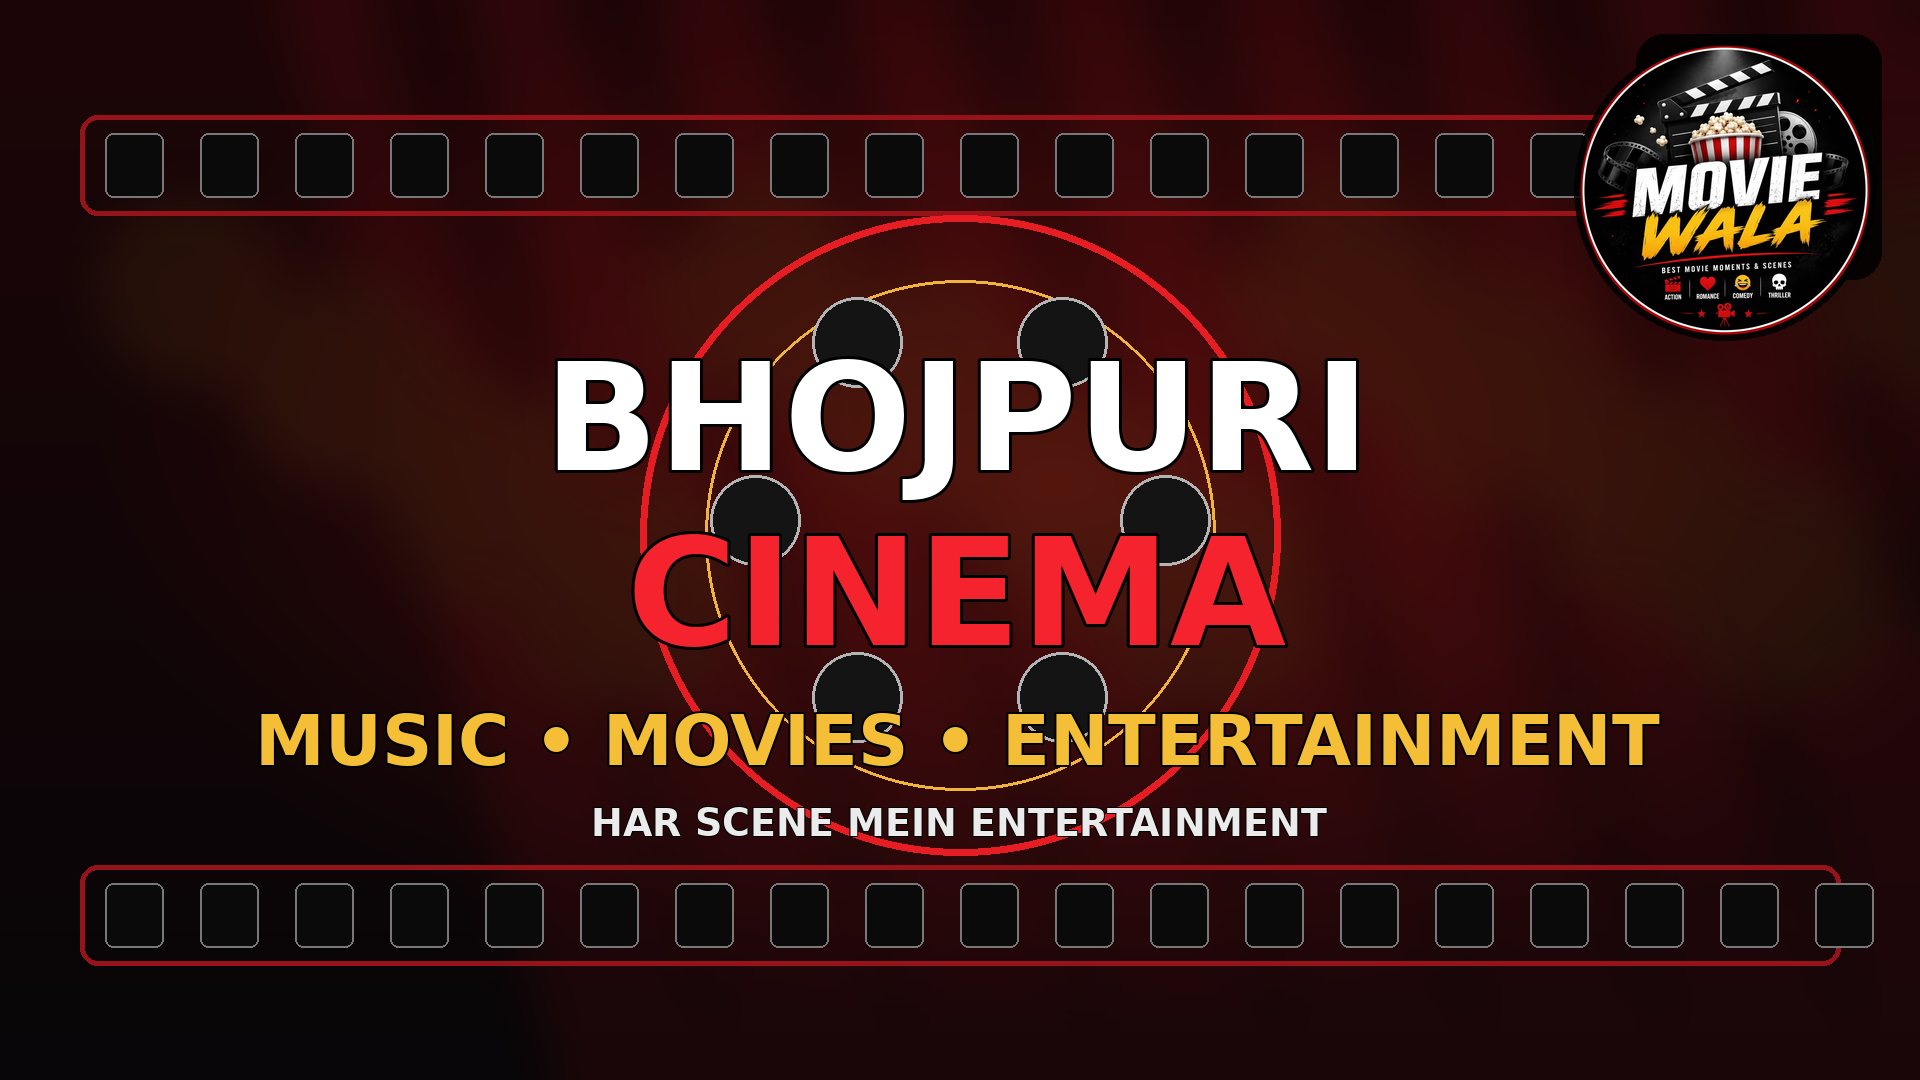
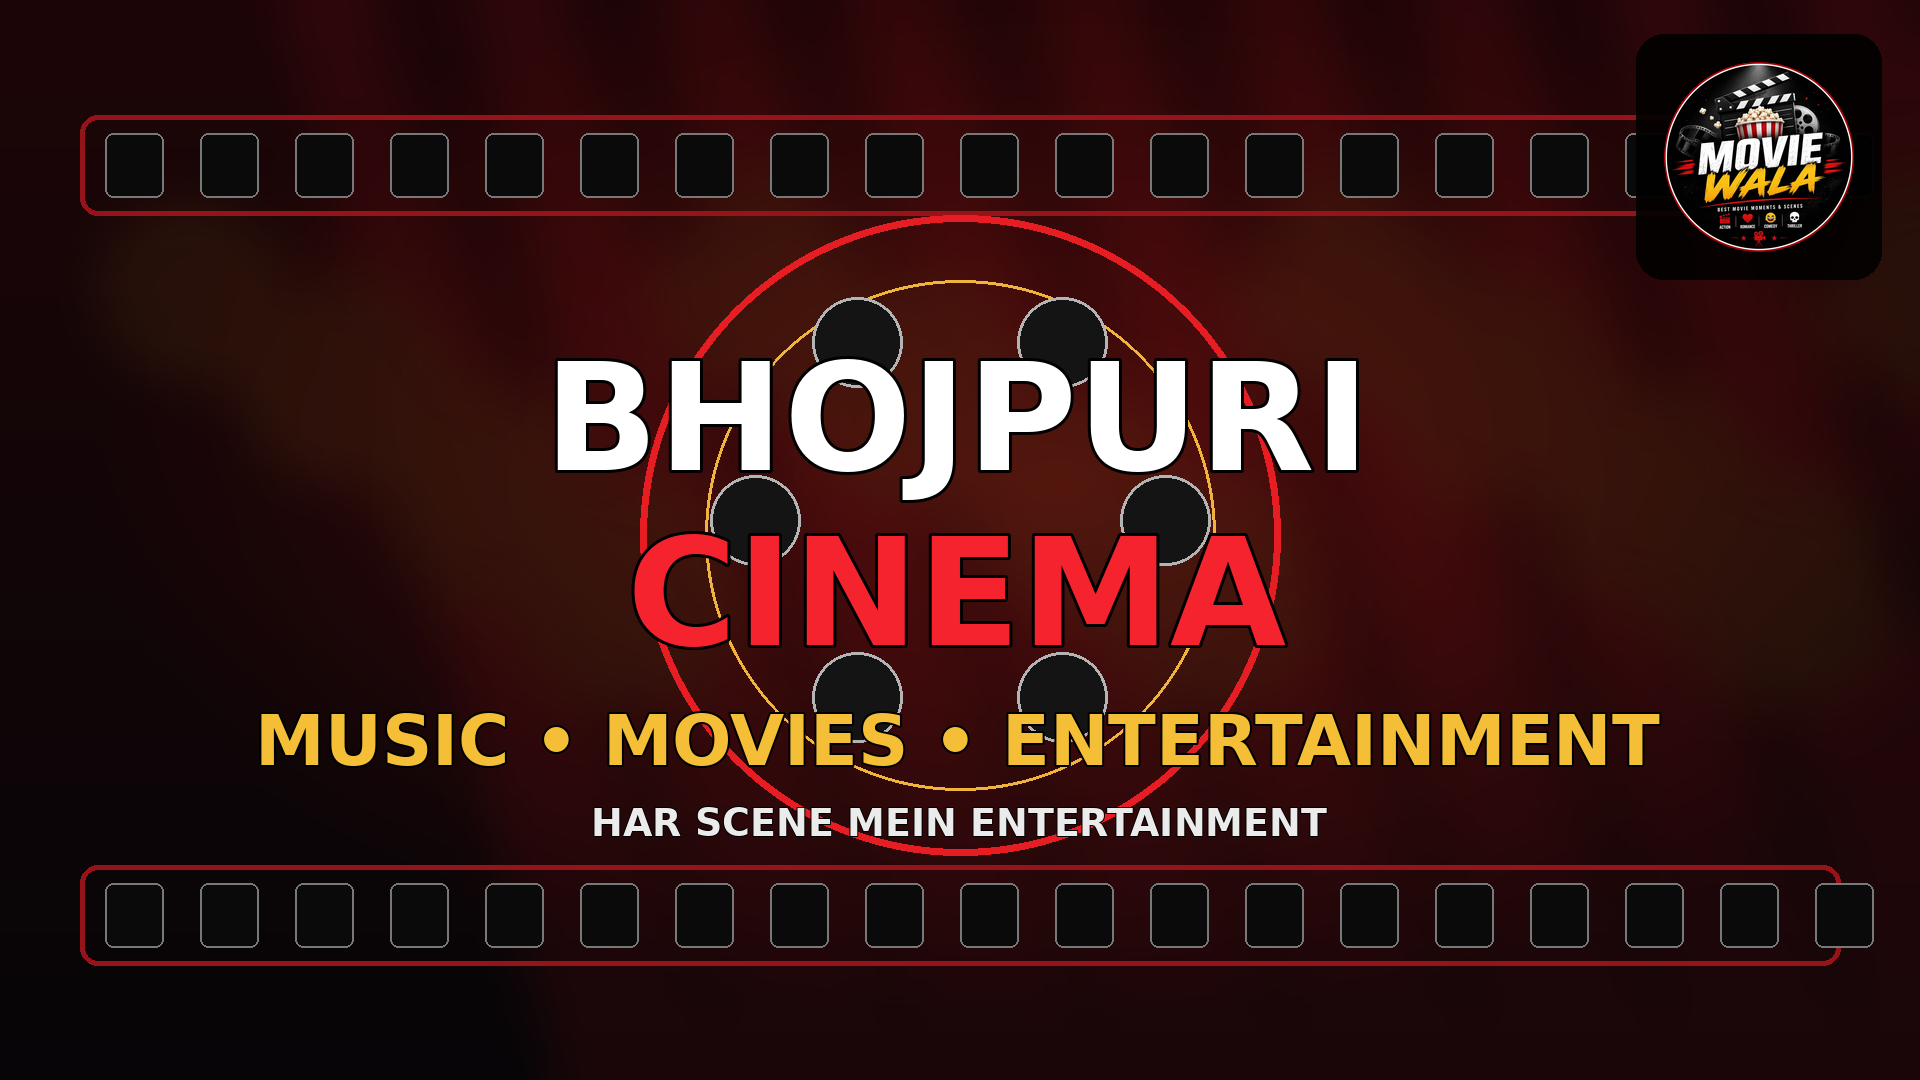
Add files via upload

Changed region(s): [[0.8125, 0.0306, 0.9688, 0.3361]]

diff --git a/index.html b/index.html
@@ -437,7 +437,7 @@ section{
             rgba(0,0,0,.82),
             rgba(0,0,0,.86)
         ),
-        url("hollywood-slider-1920x1080.png");
+        url("movie-wala-banner-2[1].jpg");
 
     background-position:center;
 
@@ -987,34 +987,10 @@ body.menu-open{
 }
 
 
-/* FINAL MOVIE WALA SLIDER */
-.hero-slider{
-  position:relative;
-  width:100%;
-  aspect-ratio:16/9;
-  overflow:hidden;
-  background:#050505;
-}
-.hero-slide{
-  position:absolute;
-  inset:0;
-  width:100%;
-  height:100%;
-  object-fit:cover;
-  object-position:center center;
-}
-.slider-dots{
-  position:absolute;
-  z-index:20;
-  left:50%;
-  bottom:14px;
-  transform:translateX(-50%);
-}
-@media(max-width:600px){
-  .hero-slider{aspect-ratio:16/9;}
-  .hero-slide{width:100%;height:100%;object-fit:cover;}
-  .slider-dots{bottom:8px;}
-}
+/* FINAL 16:9 SLIDER FIT */
+.hero-slider{width:100%;aspect-ratio:16/9;height:auto;min-height:0;overflow:hidden;position:relative;background:#050505;}
+.hero-slide{position:absolute;inset:0;width:100%;height:100%;object-fit:cover;object-position:center center;display:block;}
+@media(max-width:600px){.hero-slider{width:100%;aspect-ratio:16/9;height:auto;}.hero-slide{width:100%;height:100%;object-fit:cover;object-position:center center;}.slider-dots{bottom:10px;z-index:10;}}
 
 </style>
 </head>
@@ -1088,32 +1064,16 @@ body.menu-open{
 
         <div class="hero-slider" id="heroSlider">
 
-            <img class="hero-slide active"
-                 src="bollywood-slider-1920x1080.png"
-                 alt="Bollywood Cinema">
-
-            <img class="hero-slide"
-                 src="hollywood-slider-1920x1080.png"
-                 alt="Hollywood Cinema">
-
-            <img class="hero-slide"
-                 src="tollywood-slider-1920x1080.png"
-                 alt="Tollywood Cinema">
-
-            <img class="hero-slide"
-                 src="movie-wala-originals-1920x1080.png"
-                 alt="Movie Wala Originals">
-
-            <img class="hero-slide"
-                 src="bhojpuri-slider-1920x1080.png"
-                 alt="Bhojpuri Cinema">
+            <img class="hero-slide active" src="bollywood-slider-1920x1080.png" alt="Bollywood Entertainment Banner">
+            <img class="hero-slide" src="hollywood-slider-1920x1080.png" alt="Hollywood Entertainment Banner">
+            <img class="hero-slide" src="tollywood-slider-1920x1080.png" alt="Tollywood Entertainment Banner">
+            <img class="hero-slide" src="bhojpuri-slider-1920x1080.png" alt="Bhojpuri Entertainment Banner">
 
             <div class="slider-dots">
                 <button class="slider-dot active" data-slide="0" aria-label="Bollywood"></button>
                 <button class="slider-dot" data-slide="1" aria-label="Hollywood"></button>
                 <button class="slider-dot" data-slide="2" aria-label="Tollywood"></button>
-                <button class="slider-dot" data-slide="3" aria-label="Movie Wala Originals"></button>
-                <button class="slider-dot" data-slide="4" aria-label="Bhojpuri"></button>
+                <button class="slider-dot" data-slide="3" aria-label="Bhojpuri"></button>
             </div>
 
         </div>
